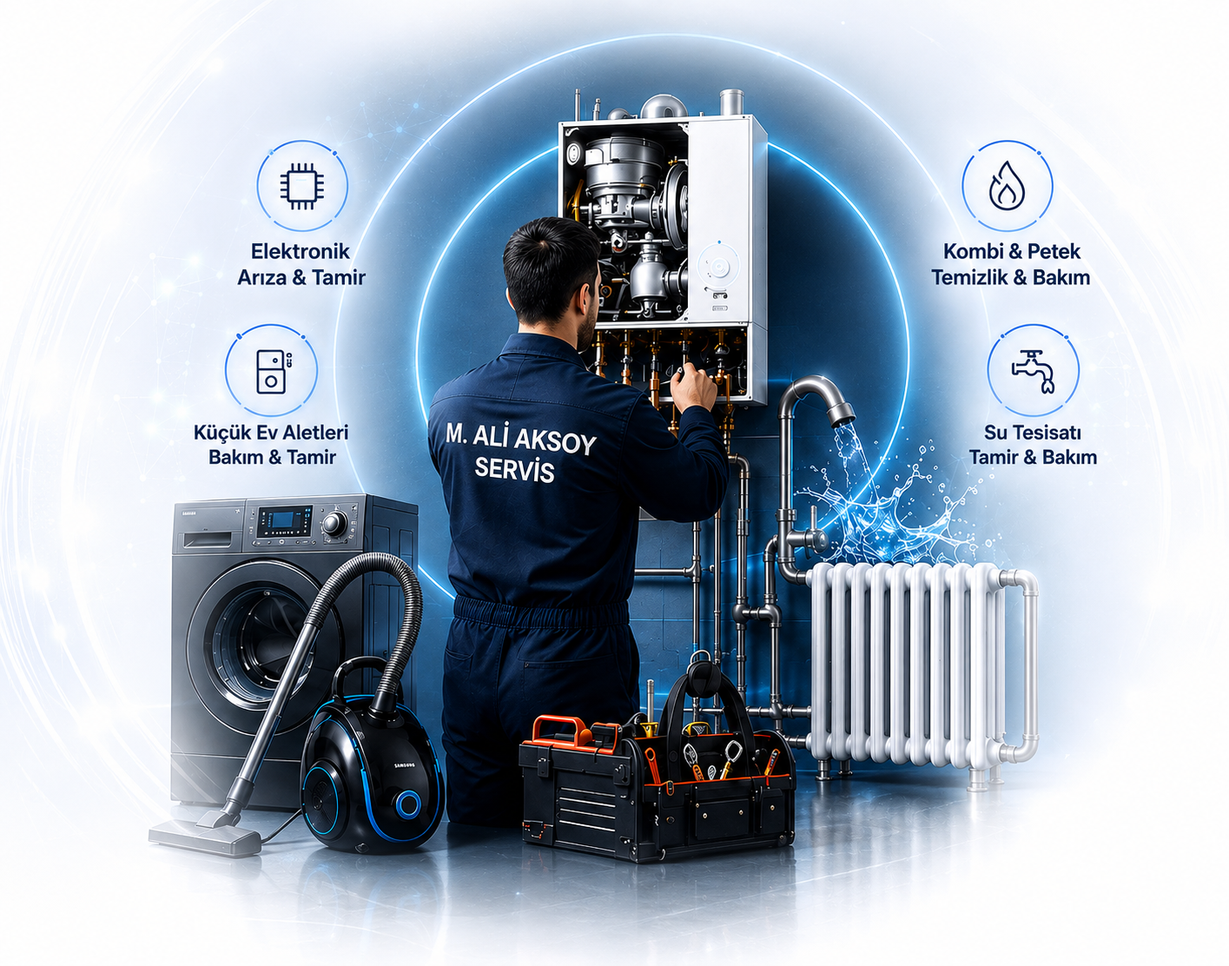
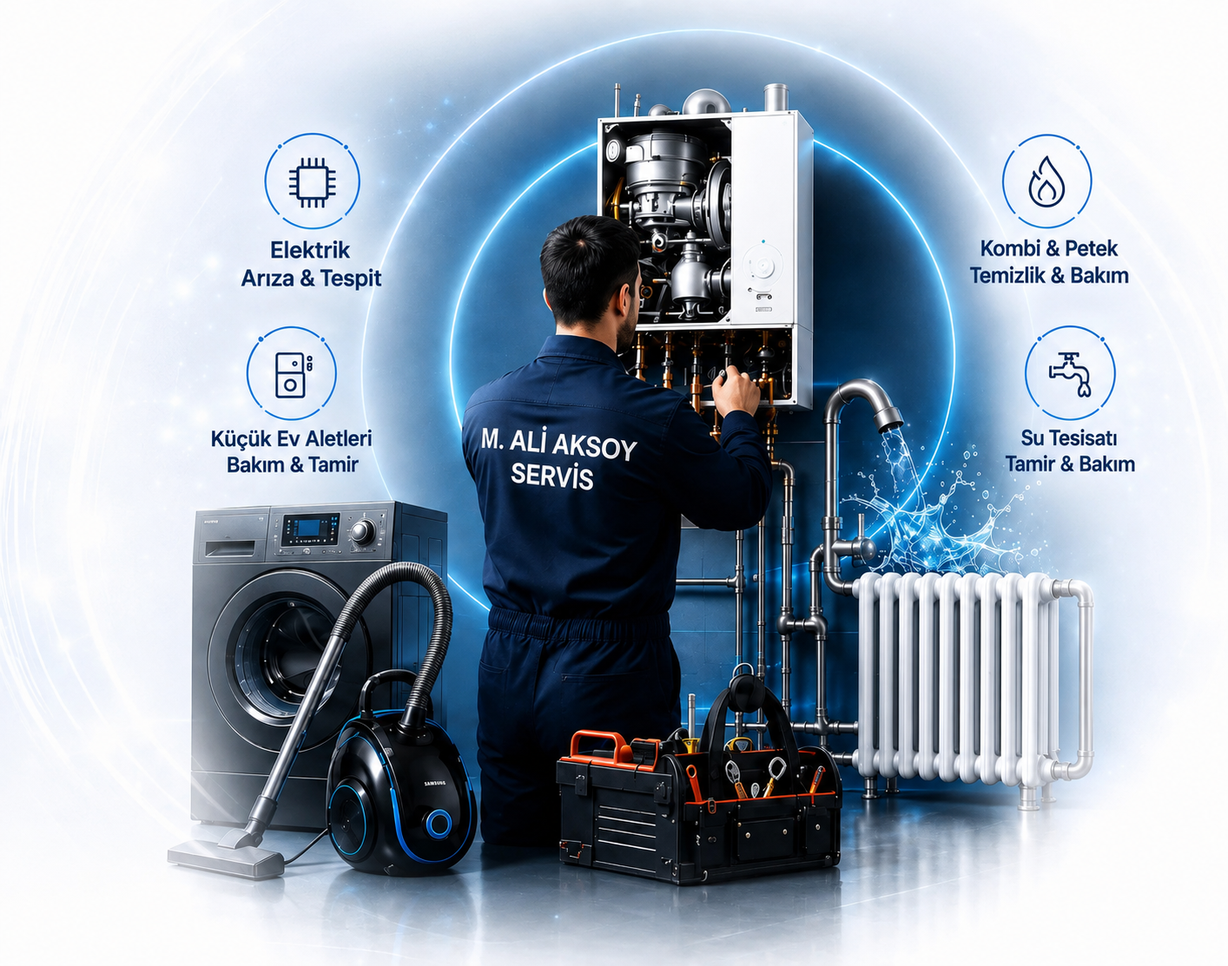
Add localized hero art and electrical diagnostics service

diff --git a/app/page.tsx b/app/page.tsx
@@ -38,7 +38,6 @@ import {
   Search,
   Settings2,
   ShieldCheck,
-  Tv,
   Video,
   Volume2,
   Wrench,
@@ -54,9 +53,9 @@ type Language = "tr" | "en";
 
 const serviceCatalog = [
   {
-    id: "electronics", slug: "elektronik-tamir", no: "01", image: "/assets/cards/01.webp", width: 1536, height: 1024, icon: Tv,
-    tr: { tag: "ELEKTRONİK", title: "Elektronik Arıza & Tamir", text: "Televizyon, uydu alıcısı, ses sistemleri ve daha fazlasında bakım ve onarım.", issues: ["Televizyon arızası", "Uydu alıcısı arızası", "Ses sistemi arızası", "Diğer elektronik arıza"] },
-    en: { tag: "ELECTRONICS", title: "Electronic Fault & Repair", text: "Maintenance and repair for televisions, satellite receivers, sound systems and more.", issues: ["Television fault", "Satellite receiver fault", "Sound system fault", "Other electronic fault"] },
+    id: "electrical-diagnostics", slug: "elektrik-ariza-tespit", no: "01", image: "/assets/cards/01.webp", width: 1536, height: 1024, icon: Search,
+    tr: { tag: "ELEKTRİK", title: "Elektrik Arıza Tespit", text: "Sigorta, priz, anahtar, aydınlatma ve elektrik hattı arızalarında doğru tespit.", issues: ["Sigorta atması", "Priz veya anahtar arızası", "Aydınlatma arızası", "Diğer elektrik arızası"] },
+    en: { tag: "ELECTRICAL", title: "Electrical Fault Detection", text: "Accurate diagnosis for fuse, socket, switch, lighting and electrical line faults.", issues: ["Tripping fuse", "Socket or switch fault", "Lighting fault", "Other electrical fault"] },
   },
   {
     id: "small-appliances", slug: "kucuk-ev-aletleri-tamiri", no: "02", image: "/assets/cards/02.webp", width: 1536, height: 1024, icon: Coffee,
@@ -78,7 +77,7 @@ const serviceCatalog = [
 const copy = {
   tr: {
     locale: "Türkçe", navLabel: "Ana menü", home: "Anasayfa", services: "Hizmetler", assurance: "Çalışma ve Güvence", contact: "İletişim", technicalService: "TEKNİK SERVİS", menu: "Menüyü aç veya kapat",
-    professional: "PROFESYONEL HİZMET", heroA: "Arızanız beklemez.", heroB: "Biz de.", heroLead: "Sincan merkezli ekibimizle Ankara genelinde; elektronikten kombiye, su tesisatından petek bakımına hızlı teşhis ve özenli çalışma.", quote: "FİYAT AL", viewServices: "HİZMETLERİ İNCELE",
+    professional: "PROFESYONEL HİZMET", heroA: "Arızanız beklemez.", heroB: "Biz de.", heroLead: "Sincan merkezli ekibimizle Ankara genelinde; elektrik arıza tespitinden kombiye, su tesisatından petek bakımına hızlı teşhis ve özenli çalışma.", quote: "FİYAT AL", viewServices: "HİZMETLERİ İNCELE",
     micro: ["Uzman teknik servis", "Garantili hizmet", "Hızlı çözüm", "Güvenilir destek"], available: "Ulaşılabilir servis", writeWa: "WhatsApp’tan yazın",
     servicesKicker: "01 / HİZMETLER", servicesTitleA: "İhtiyacınız için", servicesTitleB: "doğru çözüm.", servicesLead: "Evde aksayan teknik işlerinizi ertelemeyin. İhtiyacınızı seçin, hızlıca fiyat alın.",
     assuranceKicker: "02 / GÜVENCE", assuranceTitleA: "Güveniniz", assuranceTitleB: "bizim için önemli.", trust: [
@@ -91,10 +90,10 @@ const copy = {
       ["Bilgi alın", "İhtiyacı birlikte netleştirelim, uygun çözümü paylaşalım."],
       ["İşi çözelim", "Planlanan zamanda özenli bakım veya onarım yapılsın."],
     ],
-    localKicker: "ANKARA YERİNDE SERVİS", localTitle: "Sincan’dan Ankara geneline teknik destek.", localText: "Elektronik arızadan küçük ev aletlerine, kombi bakımından petek temizliği ve su tesisatına kadar Ankara içindeki servis taleplerini değerlendiriyoruz.", districts: ["Sincan", "Etimesgut", "Yenimahalle", "Keçiören", "Çankaya", "Mamak", "Pursaklar", "Gölbaşı"], faqTitle: "Sık sorulan sorular", faq: [["Hangi bölgelere servis veriyorsunuz?", "Sincan merkezli olarak Ankara genelindeki servis taleplerini değerlendiriyoruz. İlçe ve adres bilginizi WhatsApp üzerinden iletebilirsiniz."], ["Servis ücreti hangi durumda alınır?", "Arıza tespiti için servis ücreti uygulanır. Arıza tamiri tarafımızca garanti edilerek yapıldığında servis ücreti alınmaz."], ["Fiyat bilgisini nasıl alabilirim?", "Hizmet ve arıza türünü WhatsApp servis asistanından seçerek bilgilerinizi iletebilir, talebinize özel fiyat alabilirsiniz."], ["Fotoğraf veya video gönderebilir miyim?", "Evet. Servis talebini oluşturduktan sonra cihazın veya arızanın fotoğraf ve videolarını WhatsApp üzerinden gönderebilirsiniz."]],
+    localKicker: "ANKARA YERİNDE SERVİS", localTitle: "Sincan’dan Ankara geneline teknik destek.", localText: "Elektrik arıza tespitinden küçük ev aletlerine, kombi bakımından petek temizliği ve su tesisatına kadar Ankara içindeki servis taleplerini değerlendiriyoruz.", districts: ["Sincan", "Etimesgut", "Yenimahalle", "Keçiören", "Çankaya", "Mamak", "Pursaklar", "Gölbaşı"], faqTitle: "Sık sorulan sorular", faq: [["Hangi bölgelere servis veriyorsunuz?", "Sincan merkezli olarak Ankara genelindeki servis taleplerini değerlendiriyoruz. İlçe ve adres bilginizi WhatsApp üzerinden iletebilirsiniz."], ["Servis ücreti hangi durumda alınır?", "Arıza tespiti için servis ücreti uygulanır. Arıza tamiri tarafımızca garanti edilerek yapıldığında servis ücreti alınmaz."], ["Fiyat bilgisini nasıl alabilirim?", "Hizmet ve arıza türünü WhatsApp servis asistanından seçerek bilgilerinizi iletebilir, talebinize özel fiyat alabilirsiniz."], ["Fotoğraf veya video gönderebilir miyim?", "Evet. Servis talebini oluşturduktan sonra cihazın veya arızanın fotoğraf ve videolarını WhatsApp üzerinden gönderebilirsiniz."]],
     contactKicker: "04 / İLETİŞİM", contactLead: "Sincan merkezli, Ankara geneli yerinde servis için ihtiyacınızı şimdi anlatın; hizmete özel fiyat bilgisi alın.", waQuote: "WHATSAPP’TAN FİYAT AL", phone: "TELEFON",
-    footerSlogan: "Eviniz için güvenilir teknik destek.", footerText: "Elektronik, küçük ev aletleri, kombi, petek ve su tesisatı ihtiyaçlarınızda hızlı ve özenli çözüm. Sincan merkezli ekibimiz Ankara genelinde yerinde servis sağlar. Her işlemde açık iletişim ve kalıcı çözüm yaklaşımıyla çalışırız.", ourServices: "Hizmetlerimiz", contactUpper: "İLETİŞİM", serviceArea: "Ankara genelinde yerinde servis hizmeti.", rights: "Tüm Hakları Saklıdır.", backTop: "YUKARI DÖN",
-    ticker: ["ARIZA TESPİTİ", "ELEKTRONİK ONARIM", "KÜÇÜK EV ALETLERİ", "KOMBİ BAKIMI", "PETEK TEMİZLİĞİ", "SU KAÇAĞI", "TIKANIKLIK AÇMA", "Hızlı teşhis, özenli işçilik, güvenilir servis"],
+    footerSlogan: "Eviniz için güvenilir teknik destek.", footerText: "Elektrik arıza tespiti, küçük ev aletleri, kombi, petek ve su tesisatı ihtiyaçlarınızda hızlı ve özenli çözüm. Sincan merkezli ekibimiz Ankara genelinde yerinde servis sağlar. Her işlemde açık iletişim ve kalıcı çözüm yaklaşımıyla çalışırız.", ourServices: "Hizmetlerimiz", contactUpper: "İLETİŞİM", serviceArea: "Ankara genelinde yerinde servis hizmeti.", rights: "Tüm Hakları Saklıdır.", backTop: "YUKARI DÖN",
+    ticker: ["ELEKTRİK ARIZA TESPİTİ", "KÜÇÜK EV ALETLERİ", "KOMBİ BAKIMI", "PETEK TEMİZLİĞİ", "SU KAÇAĞI", "TIKANIKLIK AÇMA", "Hızlı teşhis, özenli işçilik, güvenilir servis"],
     a11y: { menu: "Erişilebilirlik", open: "Erişilebilirlik menüsünü aç", move: "Taşımak için sürükleyin", text: "Yazıyı Büyüt", contrast: "Kontrast", read: "Sesli Okuma", stopRead: "Okumayı Durdur", links: "Link Vurgula", cursor: "İmleç Büyüt", guide: "Okuma Çubuğu", images: "Görsel Gizle", reset: "Sıfırla" },
     chat: {
       aria: "WhatsApp hızlı iletişim", assistant: "M. Ali Aksoy Servis Asistanı", online: "çevrimiçi", step: "adım", close: "Sohbeti kapat", settings: "Görünüm ayarları", compactView: "Kompakt", verticalView: "Dikey", callUs: "Bizi arayın", hello: "Merhaba! Önce ihtiyacınız olan hizmet kategorisini seçin.", backService: "Hizmet seçimine dön", selectIssue: "Arıza veya işlem türünü seçin.", backIssue: "Arıza seçimine dön", createRecord: "için servis kaydı oluşturalım.", fullName: "Ad Soyad", fullNamePlaceholder: "Adınız ve soyadınız", phoneNumber: "Telefon Numarası", phonePlaceholder: "05xx xxx xx xx", address: "Adres / İlçe (isteğe bağlı)", addressPlaceholder: "Örn. Sincan, Etimesgut...", otherNoteLabel: "Arızayı kısaca açıklayın", otherNotePlaceholder: "Diğer arıza veya cihazla ilgili kısa bilgi...", otherNoteError: "Diğer seçimi için kısa bir açıklama yazın.", continue: "Devam et", nameError: "Lütfen adınızı ve soyadınızı yazın.", phoneError: "Lütfen geçerli bir telefon numarası yazın.", backContact: "İletişim bilgilerine dön", feePrompt: "Servis ücreti tercihinizi seçin.", repair: "Garanti tamir ettireceğim", visit: "Yalnızca servis ücreti", policy: "Tamir garanti edilmedikçe servis ücreti alınır. Tamir garanti edilirse servis ücreti alınmaz. Ankara içi hizmet verilir.", backFee: "Servis tercihine dön", notePrompt: "Eklemek istediğiniz bir not var mı? Bu alan isteğe bağlıdır.", noteLabel: "Ek not (isteğe bağlı)", notePlaceholder: "Arızanın ne zaman başladığı, cihaz modeli veya uygun olduğunuz saat...", mediaHint: "Fotoğraf ve video eklerini WhatsApp’a geçtikten sonra gönderebilirsiniz.", skip: "Not eklemeden devam et", summary: "Bilgileriniz hazır. WhatsApp’a geçtiğinizde aşağıdaki mesaj otomatik oluşturulacak.", changeNote: "Notu değiştir", service: "Hizmet", issue: "Arıza", preference: "Tercih", customerNote: "Müşteri notu", send: "WhatsApp’a gönder", newRequest: "Yeni talep oluştur", open: "WhatsApp sohbetini aç", defaultMessage: "Merhaba, hizmetleriniz hakkında fiyat almak istiyorum.", requestIntro: "Merhaba, web sitenizden servis kaydı oluşturmak istiyorum.", attachments: "Fotoğraf ve videoları WhatsApp üzerinden ayrıca iletebilirim.", optionalNone: "Eklenmedi",
@@ -102,7 +101,7 @@ const copy = {
   },
   en: {
     locale: "English", navLabel: "Main navigation", home: "Home", services: "Services", assurance: "Process & Assurance", contact: "Contact", technicalService: "TECHNICAL SERVICE", menu: "Open or close menu",
-    professional: "PROFESSIONAL SERVICE", heroA: "Your repair can’t wait.", heroB: "Neither do we.", heroLead: "Fast diagnosis and careful workmanship for electronics, boilers, radiators and plumbing throughout your home.", quote: "GET A QUOTE", viewServices: "VIEW SERVICES",
+    professional: "PROFESSIONAL SERVICE", heroA: "Your repair can’t wait.", heroB: "Neither do we.", heroLead: "Fast diagnosis and careful workmanship for electrical faults, boilers, radiators and plumbing throughout your home.", quote: "GET A QUOTE", viewServices: "VIEW SERVICES",
     micro: ["Expert technical service", "Guaranteed service", "Fast solutions", "Dependable support"], available: "Service available", writeWa: "Message us on WhatsApp",
     servicesKicker: "01 / SERVICES", servicesTitleA: "The right solution", servicesTitleB: "for your needs.", servicesLead: "Do not postpone technical issues at home. Choose what you need and request a quote quickly.",
     assuranceKicker: "02 / ASSURANCE", assuranceTitleA: "Your trust", assuranceTitleB: "matters to us.", trust: [
@@ -115,10 +114,10 @@ const copy = {
       ["Get information", "We clarify your needs together and share the appropriate solution."],
       ["Let us solve it", "Careful maintenance or repair is completed at the planned time."],
     ],
-    localKicker: "ON-SITE SERVICE IN ANKARA", localTitle: "Technical support across Ankara from Sincan.", localText: "We evaluate service requests across Ankara for electronics, small appliances, boiler care, radiator cleaning and plumbing.", districts: ["Sincan", "Etimesgut", "Yenimahalle", "Keçiören", "Çankaya", "Mamak", "Pursaklar", "Gölbaşı"], faqTitle: "Frequently asked questions", faq: [["Which areas do you serve?", "Based in Sincan, we evaluate service requests throughout Ankara. You can send your district and address through WhatsApp."], ["When does a call-out fee apply?", "A call-out fee applies for fault diagnosis. It is waived when we complete the repair under our guarantee."], ["How can I request a quote?", "Choose the service and fault type in the WhatsApp service assistant, then send your details for a request-specific quote."], ["Can I send photos or video?", "Yes. After creating your request, you can send photos and videos of the appliance or fault through WhatsApp."]],
+    localKicker: "ON-SITE SERVICE IN ANKARA", localTitle: "Technical support across Ankara from Sincan.", localText: "We evaluate service requests across Ankara for electrical fault detection, small appliances, boiler care, radiator cleaning and plumbing.", districts: ["Sincan", "Etimesgut", "Yenimahalle", "Keçiören", "Çankaya", "Mamak", "Pursaklar", "Gölbaşı"], faqTitle: "Frequently asked questions", faq: [["Which areas do you serve?", "Based in Sincan, we evaluate service requests throughout Ankara. You can send your district and address through WhatsApp."], ["When does a call-out fee apply?", "A call-out fee applies for fault diagnosis. It is waived when we complete the repair under our guarantee."], ["How can I request a quote?", "Choose the service and fault type in the WhatsApp service assistant, then send your details for a request-specific quote."], ["Can I send photos or video?", "Yes. After creating your request, you can send photos and videos of the appliance or fault through WhatsApp."]],
     contactKicker: "04 / CONTACT", contactLead: "Tell us what you need and request a service-specific quote.", waQuote: "GET A WHATSAPP QUOTE", phone: "PHONE",
-    footerSlogan: "Dependable technical support for your home.", footerText: "Fast and careful solutions for electronics, small appliances, boilers, radiators and plumbing. Our Sincan-based team provides on-site service throughout Ankara. We work with clear communication and a lasting-solution approach.", ourServices: "Our Services", contactUpper: "CONTACT", serviceArea: "On-site service throughout Ankara.", rights: "All Rights Reserved.", backTop: "BACK TO TOP",
-    ticker: ["FAULT DIAGNOSIS", "ELECTRONIC REPAIR", "SMALL APPLIANCES", "BOILER CARE", "RADIATOR CLEANING", "WATER LEAKS", "BLOCKAGE REMOVAL", "Fast diagnosis, careful workmanship, dependable service"],
+    footerSlogan: "Dependable technical support for your home.", footerText: "Fast and careful solutions for electrical fault detection, small appliances, boilers, radiators and plumbing. Our Sincan-based team provides on-site service throughout Ankara. We work with clear communication and a lasting-solution approach.", ourServices: "Our Services", contactUpper: "CONTACT", serviceArea: "On-site service throughout Ankara.", rights: "All Rights Reserved.", backTop: "BACK TO TOP",
+    ticker: ["ELECTRICAL FAULT DETECTION", "SMALL APPLIANCES", "BOILER CARE", "RADIATOR CLEANING", "WATER LEAKS", "BLOCKAGE REMOVAL", "Fast diagnosis, careful workmanship, dependable service"],
     a11y: { menu: "Accessibility", open: "Open accessibility menu", move: "Drag to move", text: "Enlarge Text", contrast: "Contrast", read: "Read Aloud", stopRead: "Stop Reading", links: "Highlight Links", cursor: "Large Cursor", guide: "Reading Guide", images: "Hide Images", reset: "Reset" },
     chat: {
       aria: "WhatsApp quick contact", assistant: "M. Ali Aksoy Service Assistant", online: "online", step: "step", close: "Close chat", settings: "Display settings", compactView: "Compact", verticalView: "Vertical", callUs: "Call us", hello: "Hello! First, choose the service category you need.", backService: "Back to services", selectIssue: "Choose the fault or service type.", backIssue: "Back to issue selection", createRecord: "— let’s create your service request.", fullName: "Full Name", fullNamePlaceholder: "Your full name", phoneNumber: "Phone Number", phonePlaceholder: "Your phone number", address: "Address / District (optional)", addressPlaceholder: "e.g. Sincan, Etimesgut...", otherNoteLabel: "Briefly describe the issue", otherNotePlaceholder: "A short description of the other issue or appliance...", otherNoteError: "Please add a short description for the other option.", continue: "Continue", nameError: "Please enter your full name.", phoneError: "Please enter a valid phone number.", backContact: "Back to contact details", feePrompt: "Choose your service fee preference.", repair: "I want a guaranteed repair", visit: "Call-out fee only", policy: "A service fee applies unless the repair is guaranteed. No service fee is charged when the repair is guaranteed. Service is available within Ankara.", backFee: "Back to service preference", notePrompt: "Would you like to add a note? This field is optional.", noteLabel: "Additional note (optional)", notePlaceholder: "When the issue started, appliance model or your preferred time...", mediaHint: "You can send photo and video attachments after continuing to WhatsApp.", skip: "Continue without a note", summary: "Your details are ready. The message below will be created automatically in WhatsApp.", changeNote: "Edit note", service: "Service", issue: "Issue", preference: "Preference", customerNote: "Customer note", send: "Send via WhatsApp", newRequest: "Create a new request", open: "Open WhatsApp chat", defaultMessage: "Hello, I would like to get a quote for your services.", requestIntro: "Hello, I would like to create a service request through your website.", attachments: "I can also send photos and videos via WhatsApp.", optionalNone: "Not added",
@@ -156,6 +155,9 @@ export default function Home() {
 
   const t = copy[language];
   const services = serviceCatalog.map((service) => ({ ...service, ...service[language] }));
+  const heroImage = language === "en"
+    ? { base: "/assets/kare-efekt-en", width: 1415, height: 1112, alt: "Electrical fault detection, boiler, radiator and plumbing service in Ankara" }
+    : { base: "/assets/kare-efekt-tr", width: 1414, height: 1113, alt: "Ankara'da elektrik arıza tespiti, kombi, petek ve su tesisatı servisi" };
   const totalChatSteps = 6;
 
   useEffect(() => {
@@ -349,7 +351,7 @@ export default function Home() {
 
         <div className="hero-visual" aria-label={t.services}>
           <div className="orbit orbit-one" aria-hidden="true" /><div className="orbit orbit-two" aria-hidden="true" />
-          <div className="hero-service-art"><img src="/assets/kare-efekt-960.webp" srcSet="/assets/kare-efekt-640.webp 640w, /assets/kare-efekt-960.webp 960w, /assets/kare-efekt.webp 1415w" sizes="(max-width: 820px) 100vw, 55vw" alt="Ankara'da elektronik, kombi, petek ve su tesisatı teknik servisi" width="1415" height="1112" decoding="async" fetchPriority="high" /></div>
+          <div className="hero-service-art"><img src={`${heroImage.base}-960.webp`} srcSet={`${heroImage.base}-640.webp 640w, ${heroImage.base}-960.webp 960w, ${heroImage.base}.webp ${heroImage.width}w`} sizes="(max-width: 820px) 100vw, 55vw" alt={heroImage.alt} width={heroImage.width} height={heroImage.height} decoding="async" fetchPriority="high" /></div>
           <div className="availability"><i /><span><b>{t.available}</b>{t.writeWa}</span></div>
         </div>
       </section>

diff --git a/app/hizmetler/service-data.ts b/app/hizmetler/service-data.ts
@@ -17,20 +17,20 @@ export type ServicePageData = {
 
 export const servicePages: ServicePageData[] = [
   {
-    slug: "elektronik-tamir",
-    title: "Ankara Elektronik Arıza ve Tamir Servisi",
-    shortTitle: "Elektronik Arıza ve Tamir",
-    metaTitle: "Ankara Elektronik Tamir Servisi | M. Ali Aksoy",
-    description: "Ankara genelinde televizyon, uydu alıcısı ve ses sistemi arızaları için elektronik tamir servisi. Sincan merkezli servis için fiyat alın.",
-    eyebrow: "ELEKTRONİK TEKNİK SERVİS",
-    intro: "Televizyon, uydu alıcısı ve ses sistemlerindeki arızaları doğru tespit ederek uygulanabilir onarım seçeneklerini paylaşıyoruz. Sincan merkezli olarak Ankara içindeki servis taleplerini değerlendiriyoruz.",
+    slug: "elektrik-ariza-tespit",
+    title: "Ankara Elektrik Arıza Tespit Servisi",
+    shortTitle: "Elektrik Arıza Tespit",
+    metaTitle: "Ankara Elektrik Arıza Tespit | M. Ali Aksoy",
+    description: "Ankara genelinde sigorta atması, priz, anahtar, aydınlatma ve elektrik hattı arızaları için yerinde arıza tespiti. Sincan merkezli servis.",
+    eyebrow: "ELEKTRİK ARIZA TESPİTİ",
+    intro: "Sigorta atması, çalışmayan priz veya anahtar, aydınlatma sorunu ve elektrik hattındaki düzensizliklerde arızanın kaynağını doğru belirlemeye odaklanıyoruz. Sincan merkezli olarak Ankara içindeki yerinde servis taleplerini değerlendiriyoruz.",
     image: "/assets/cards/01.webp",
     imageWidth: 1536,
     imageHeight: 1024,
-    imageAlt: "Ankara elektronik arıza ve tamir servisi",
-    services: ["Televizyon arıza tespiti ve tamiri", "Uydu alıcısı kontrolü ve onarımı", "Ses sistemi arıza tespiti", "Elektronik cihaz bakım ve kontrolü"],
-    signs: ["Cihazın açılmaması veya kendiliğinden kapanması", "Görüntü ya da ses kesintileri", "Bağlantı ve sinyal problemleri", "Normal dışı ses, ısınma veya çalışma düzensizliği"],
-    faq: [["Elektronik cihazı servis öncesinde nasıl anlatmalıyım?", "Cihazın marka ve modelini, arızanın ne zaman başladığını ve görülen belirtisini yazmanız ilk değerlendirmeyi kolaylaştırır."], ["Televizyon ve ses sistemi için servis veriliyor mu?", "Evet. Televizyon, uydu alıcısı ve ses sistemleri başlıca elektronik servis alanlarımız arasındadır."], ["Arıza fotoğrafı veya videosu gönderebilir miyim?", "Evet. WhatsApp servis kaydından sonra cihazın çalışmasını gösteren fotoğraf veya videoyu iletebilirsiniz."], ["Servis ücreti nasıl uygulanır?", "Arıza tespiti için servis ücreti uygulanır. Arıza tarafımızca garanti edilerek tamir edildiğinde servis ücreti alınmaz."]],
+    imageAlt: "Ankara elektrik arıza tespit servisi",
+    services: ["Sigorta ve kaçak akım kontrolü", "Priz ve anahtar arıza tespiti", "Aydınlatma arızası kontrolü", "Elektrik hattı ve bağlantı kontrolü"],
+    signs: ["Sigortanın sık sık atması", "Priz veya anahtarın çalışmaması", "Aydınlatmada kesinti ya da titreme", "Yanık kokusu, ısınma veya düzensiz elektrik"],
+    faq: [["Elektrik arızasını servis öncesinde nasıl anlatmalıyım?", "Arızanın bulunduğu alanı, ne zaman başladığını ve sigorta atması gibi belirtileri yazmanız ilk değerlendirmeyi kolaylaştırır."], ["Priz ve aydınlatma arızaları için servis veriliyor mu?", "Evet. Priz, anahtar, aydınlatma ve elektrik hattıyla ilgili arıza tespit talepleri değerlendirilmektedir."], ["Arıza fotoğrafı veya videosu gönderebilir miyim?", "Evet. Risk oluşturmadan uzaktan çekebildiğiniz fotoğraf veya videoyu WhatsApp servis kaydından sonra iletebilirsiniz."], ["Servis ücreti nasıl uygulanır?", "Arıza tespiti için servis ücreti uygulanır. Arıza tarafımızca garanti edilerek tamir edildiğinde servis ücreti alınmaz."]],
   },
   {
     slug: "kucuk-ev-aletleri-tamiri",
@@ -83,8 +83,11 @@ export const servicePages: ServicePageData[] = [
 ];
 
 export const legacyServiceSlugs: Record<string, string> = {
-  elektronik: "elektronik-tamir",
-  "elektronik-ariza-tamiri": "elektronik-tamir",
+  elektrik: "elektrik-ariza-tespit",
+  "elektrik-ariza-tespiti": "elektrik-ariza-tespit",
+  elektronik: "elektrik-ariza-tespit",
+  "elektronik-tamir": "elektrik-ariza-tespit",
+  "elektronik-ariza-tamiri": "elektrik-ariza-tespit",
   "kucuk-ev-aletleri": "kucuk-ev-aletleri-tamiri",
   "kucuk-ev-aletleri-servisi": "kucuk-ev-aletleri-tamiri",
   "kombi-bakimi": "kombi-bakimi-petek-temizligi",

diff --git a/app/layout.tsx b/app/layout.tsx
@@ -3,7 +3,7 @@ import "./globals.css";
 import { SITE_URL } from "./site";
 
 const title = "Ankara Teknik Servis | M. Ali Aksoy – Sincan";
-const description = "Ankara Sincan merkezli teknik servis. Elektronik, küçük ev aletleri, kombi ve petek bakımı ile su tesisatı için Ankara genelinde yerinde hizmet.";
+const description = "Ankara Sincan merkezli teknik servis. Elektrik arıza tespiti, küçük ev aletleri, kombi ve petek bakımı ile su tesisatı için Ankara genelinde yerinde hizmet.";
 
 export const metadata: Metadata = {
     metadataBase: new URL(SITE_URL),
@@ -54,7 +54,7 @@ export default function RootLayout({ children }: Readonly<{ children: React.Reac
           "@type": "OfferCatalog",
           name: "Teknik Servis Hizmetleri",
           itemListElement: [
-            "Elektronik Arıza ve Tamir",
+            "Elektrik Arıza Tespit",
             "Küçük Ev Aletleri Bakım ve Tamir",
             "Kombi ve Petek Temizlik ve Bakım",
             "Su Tesisatı Tamir ve Bakım",

diff --git a/app/[legacy]/page.tsx b/app/[legacy]/page.tsx
@@ -17,7 +17,7 @@ export default async function LegacyRedirectPage({ params }: { params: Promise<{
   const sectionTarget = sectionRedirects[legacy];
   if (sectionTarget) permanentRedirect(sectionTarget);
 
-  const serviceTarget = legacyServiceSlugs[legacy] ?? (legacy === "elektronik-tamir" || legacy === "kucuk-ev-aletleri-tamiri" || legacy === "kombi-bakimi-petek-temizligi" || legacy === "su-tesisati-tamiri" ? legacy : undefined);
+  const serviceTarget = legacyServiceSlugs[legacy] ?? (legacy === "elektrik-ariza-tespit" || legacy === "kucuk-ev-aletleri-tamiri" || legacy === "kombi-bakimi-petek-temizligi" || legacy === "su-tesisati-tamiri" ? legacy : undefined);
   if (serviceTarget) permanentRedirect(`/hizmetler/${serviceTarget}`);
 
   notFound();

diff --git a/README.md b/README.md
@@ -1,6 +1,6 @@
 # M. Ali Aksoy Teknik Servis
 
-Ankara ve Sincan merkezli elektronik tamiri, küçük ev aletleri bakımı, kombi-petek temizliği ve su tesisatı hizmetleri için hazırlanmış kurumsal web sitesi.
+Ankara ve Sincan merkezli elektrik arıza tespiti, küçük ev aletleri bakımı, kombi-petek temizliği ve su tesisatı hizmetleri için hazırlanmış kurumsal web sitesi.
 
 ## Özellikler
 
